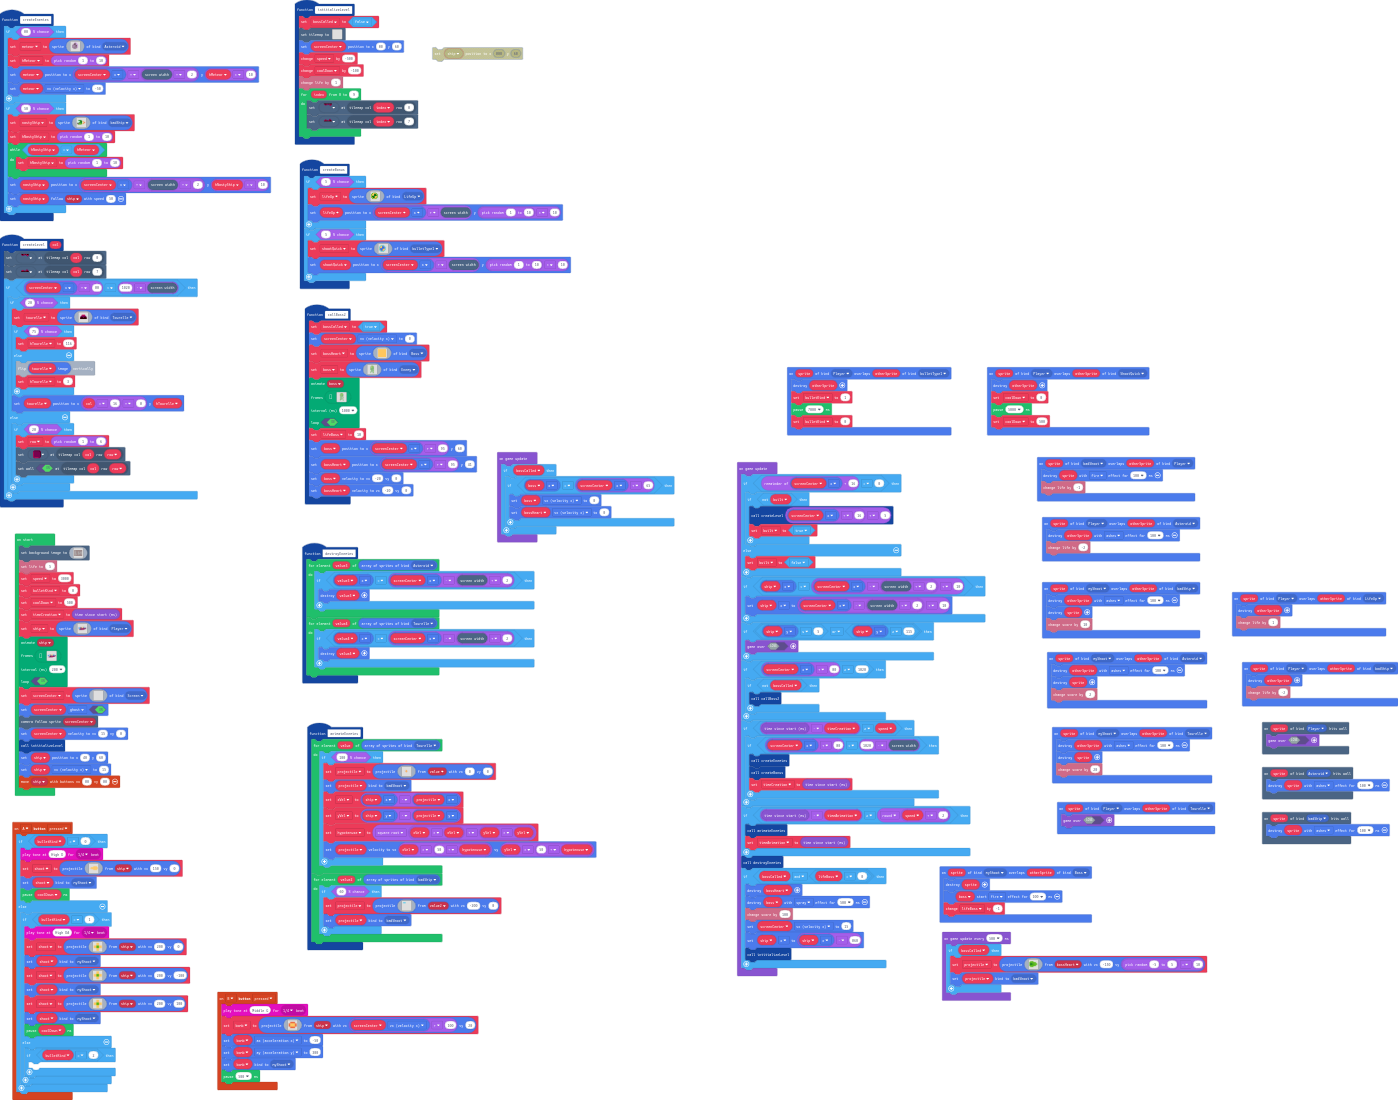
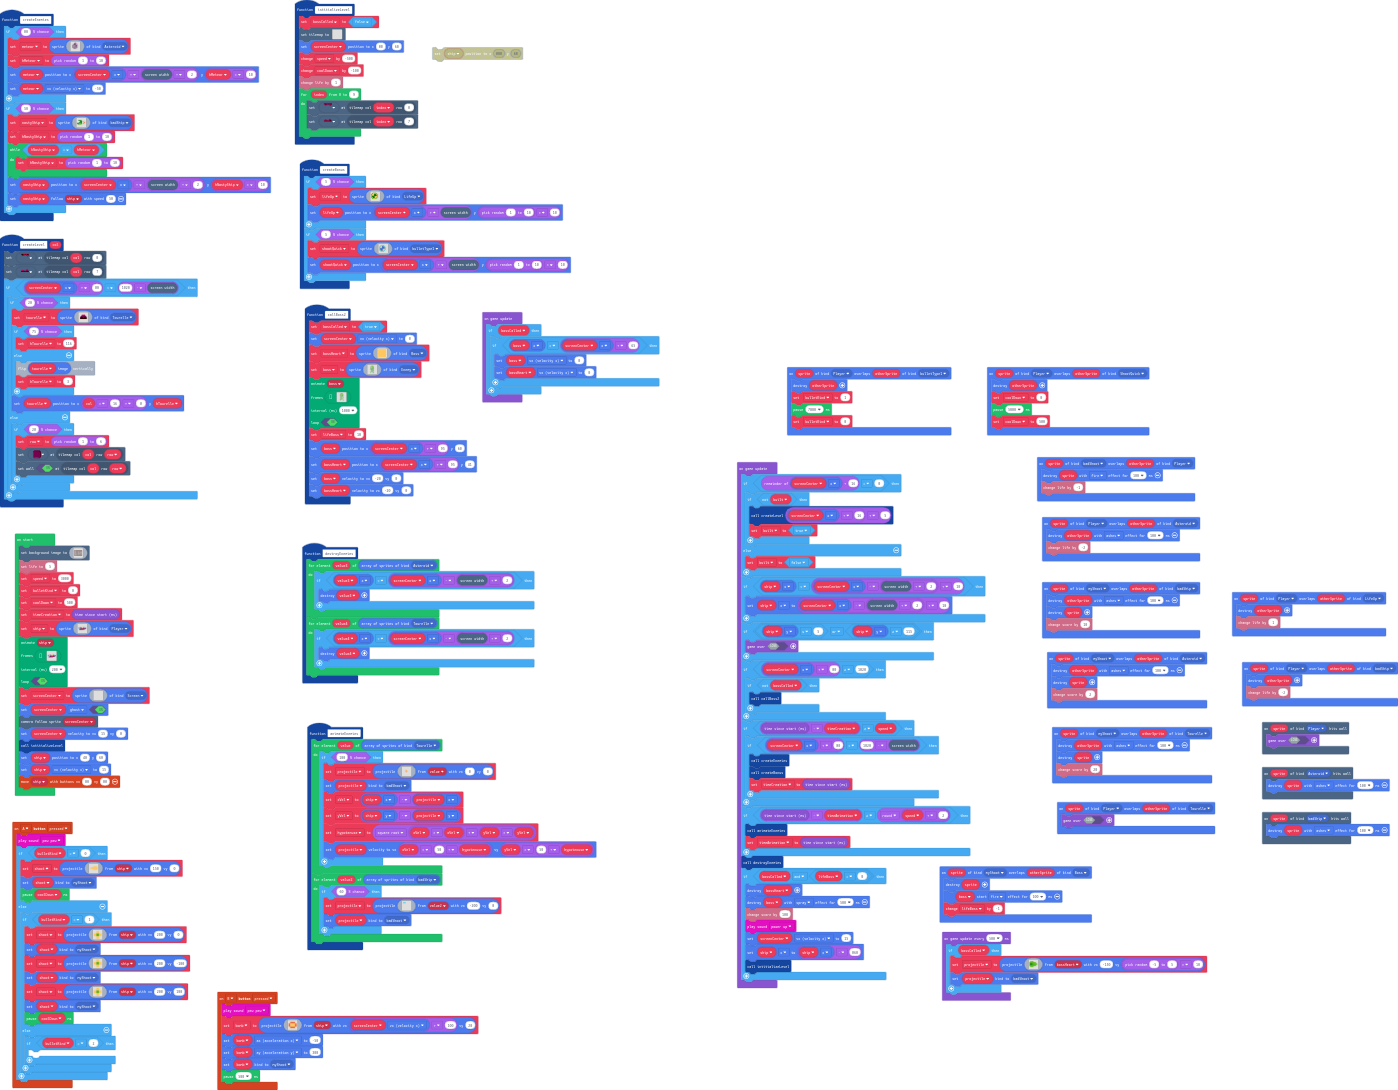
Update main.blocks, main.ts

Changed region(s): [[0.0, 0.0312, 0.4921, 1.0], [0.5229, 0.3119, 1.0, 0.9358], [0.3383, 0.2807, 0.4921, 0.3743]]

diff --git a/main.ts b/main.ts
@@ -483,7 +483,7 @@ sprites.onOverlap(SpriteKind.Player, SpriteKind.bulletType1, function (sprite, o
     bulletKind = 0
 })
 controller.B.onEvent(ControllerButtonEvent.Pressed, function () {
-    music.playTone(392, music.beat(BeatFraction.Quarter))
+    music.pewPew.play()
     bomb = sprites.createProjectileFromSprite(img`
 . 4 4 4 . 
 4 5 5 5 4 
@@ -535,8 +535,8 @@ sprites.onOverlap(SpriteKind.myShoot, SpriteKind.Tourelle, function (sprite, oth
     info.changeScoreBy(20)
 })
 controller.A.onEvent(ControllerButtonEvent.Pressed, function () {
+    music.pewPew.play()
     if (bulletKind == 0) {
-        music.playTone(587, music.beat(BeatFraction.Quarter))
         shoot = sprites.createProjectileFromSprite(img`
 . . . . . 5 5 5 5 5 . 
 . . 5 5 5 5 5 5 5 5 5 
@@ -548,7 +548,6 @@ controller.A.onEvent(ControllerButtonEvent.Pressed, function () {
         pause(coolDown)
     } else {
         if (bulletKind == 1) {
-            music.playTone(622, music.beat(BeatFraction.Quarter))
             shoot = sprites.createProjectileFromSprite(img`
 . 5 . 
 5 7 5 
@@ -895,6 +894,7 @@ game.onUpdate(function () {
         bossHeart.destroy()
         boss.destroy(effects.spray, 500)
         info.changeScoreBy(100)
+        music.powerUp.play()
         screenCenter.vx = 15
         ship.x = ship.x - 860
         intitializeLevel()
